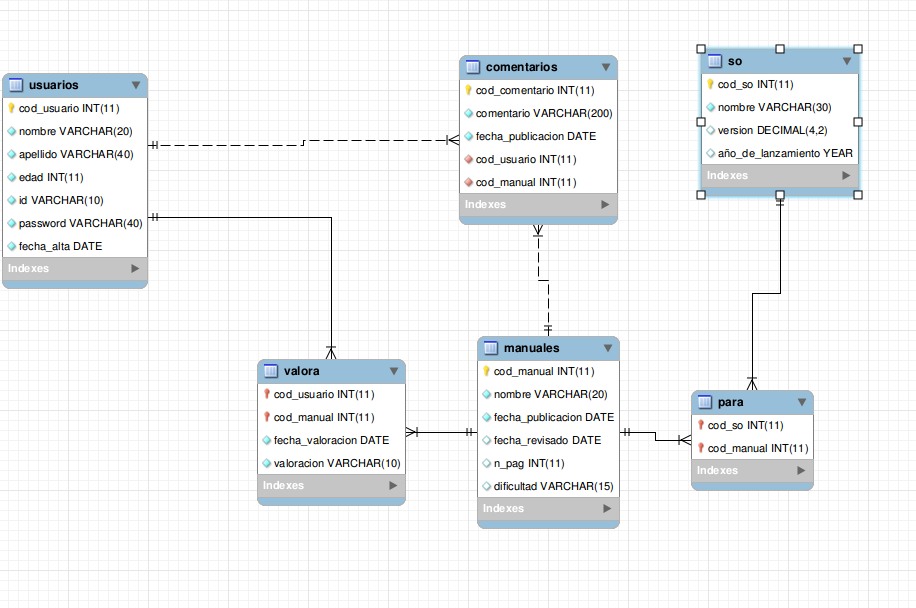
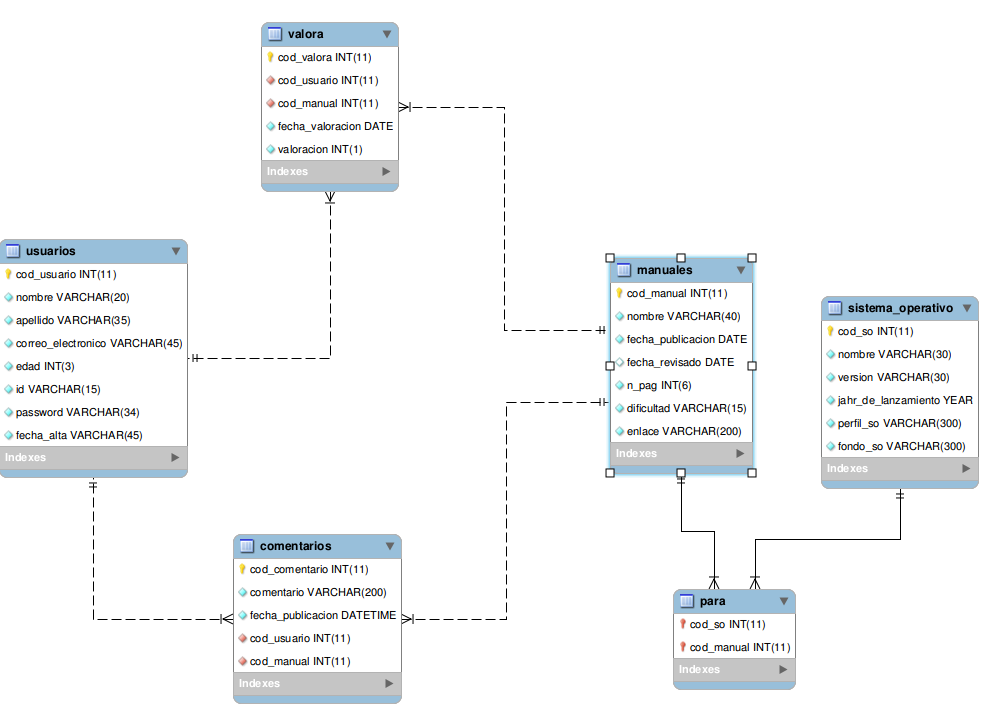
Añadido diagrama de relacional de las tablas

diff --git a/PAGINA_WEB/administrador/hola-mundo.py b/PAGINA_WEB/administrador/hola-mundo.py
@@ -1,0 +1,10 @@
+flotante = 5.0
+cadena = "Hola mundo"
+booleano = True
+entero = 20
+print("Los valores de las variables son: ")
+print("entero: ", entero)
+print("flotante: ", flotante)
+print("booleanO: ", booleano)
+
+print("entero: ", entero, " y flotante: ", flotante)
